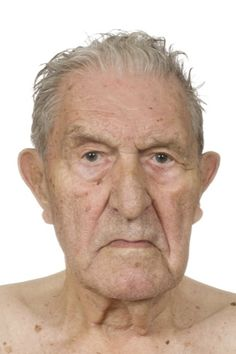
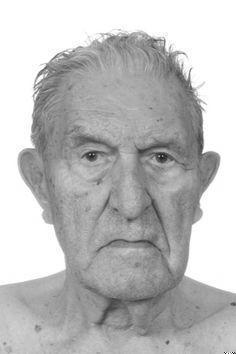
started eignenface svc model

diff --git a/face-recognition/eigenface.py b/face-recognition/eigenface.py
@@ -1,0 +1,166 @@
+
+import time
+import numpy as np
+import pandas as pd
+import cv2
+from sklearn import svm
+from sklearn import decomposition
+from sklearn import metrics
+from PIL import Image
+from sklearn.model_selection import train_test_split
+from detector import IMG_SIZES
+
+RANDOM_STATE = 42
+ESC = 27
+
+class Eigenface():
+
+    def __init__(self, csv_path='face_encodings.csv') -> None:
+
+        try:
+            self.face_df = pd.read_csv(csv_path)
+        except FileNotFoundError:
+            print('Error reading the face encodings file. Please specify the correct csv path.')
+        
+
+    def getFaceData(self):
+        ''' Get the face images and labels from the csv file.
+        Returns: faces, labels as numpy arrays.'''
+
+        # get the face paths and labels from the csv file
+        face_paths = self.face_df['path'].tolist()
+        face_labels = self.face_df['is_user'].tolist()
+
+        faces = []
+        labels = []
+
+        # loop through the face paths and labels
+        for path, label in zip(face_paths, face_labels):
+            # open image in greyscale
+            face_image = Image.open(path).convert('L')
+
+            # resize and save image to path
+            resized_image = face_image.resize(IMG_SIZES, Image.Resampling.LANCZOS)
+
+            # convert image to numpy array
+            face_np = np.array(resized_image, 'uint8')
+
+            # append data to lists
+            faces.append(face_np)
+            labels.append(int(label))
+        
+        return faces, labels
+    
+
+    def pcaInit(self, num_components=30):
+        ''' Train the eigenface model.'''
+
+        # get the face data
+        faces, labels = self.getFaceData()
+
+        # flatten paces to 1D array
+        pcaFaces = np.array([f.flatten() for f in faces])
+
+        # construct our training and testing split
+        split = train_test_split(faces, pcaFaces, labels, test_size=0.25,
+            stratify=labels, random_state=RANDOM_STATE)
+    
+        origTrain, origTest, trainX, testX, trainY, testY = split
+
+        self.trainX = trainX
+        self.testX = testX
+        self.trainY = trainY
+        self.testY = testY
+
+        # create pca model
+        self.pca = decomposition.PCA(n_components=num_components, whiten=True, svd_solver='randomized')
+
+        print("[INFO] Configuring pca...")
+
+        # train pca model
+        start = time.time()
+        self.trainX = self.pca.fit_transform(self.trainX)
+        end = time.time()
+
+        print(f'Training took {end - start} seconds.')
+
+        # reshape the components
+        images = []
+
+        for component in self.pca.components_:
+            # reshape component to 2D array of (500, 500)
+            component = component.reshape(IMG_SIZES)
+            component = np.dstack([component.astype("uint8")] * 3)
+            # image = Image.fromarray(component).convert('L')
+            images.append(component)
+        
+        # obtain the mean image
+        mean_face = self.pca.mean_.reshape(IMG_SIZES).astype('uint8')
+        self.mean_image = mean_face
+
+
+    def trainEigenface(self):
+        ''' Train the eigenface SVC model.'''
+
+        # initialize svc model
+        self.svc = svm.SVC(C=10.0, kernel='rbf', gamma=0.001, random_state=RANDOM_STATE)
+
+        print("[INFO] Training SVC model...")
+
+        # train the model
+
+        start = time.time()
+        self.trainX = self.svc.fit(self.trainX, self.trainY)
+        end = time.time()
+
+        print(f'Training took {end - start} seconds.')
+
+        # evaluate the model on test data
+        print("[INFO] evaluating model...")
+
+        predictions = self.svc.predict(self.pca.transform(self.testX))
+        print(metrics.classification_report(self.testY, predictions,
+            target_names=['imposter', 'user']))
+
+
+    def predictEigenface(self):
+        ''' Predict the face using the eigenface model.'''
+
+        camera = cv2.VideoCapture(1)
+
+        while camera.isOpened():
+
+            # get key press if exists
+            key = cv2.waitKey(33)
+
+            if key == ESC:
+                break
+
+            # read frame from camera
+            ret, frame = camera.read()
+
+            if not ret:
+                print('Error reading frame.')
+                break
+
+            # convert frame to greyscale
+            grey_frame = cv2.cvtColor(frame, cv2.COLOR_BGR2GRAY)
+
+            # apply PCA dimension reduction and predict
+            pca_frame = self.pca.transform(grey_frame)
+            prediction = self.svc.predict(pca_frame)
+
+            print(prediction)
+
+            cv2.imshow('Eigenface', frame)
+        
+        camera.release()
+        cv2.destroyAllWindows()
+
+
+
+if __name__ == '__main__':
+    eigenface = Eigenface()
+    eigenface.pcaInit()
+    eigenface.trainEigenface()
+    eigenface.predictEigenface()
